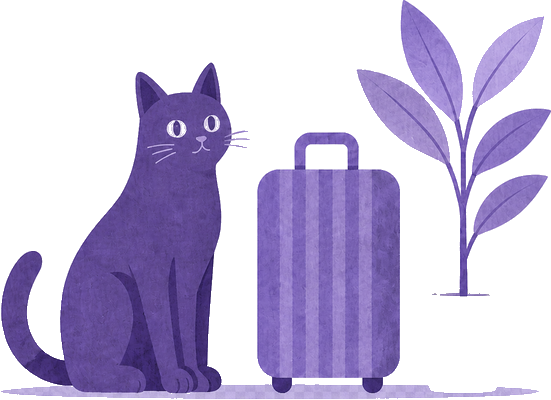
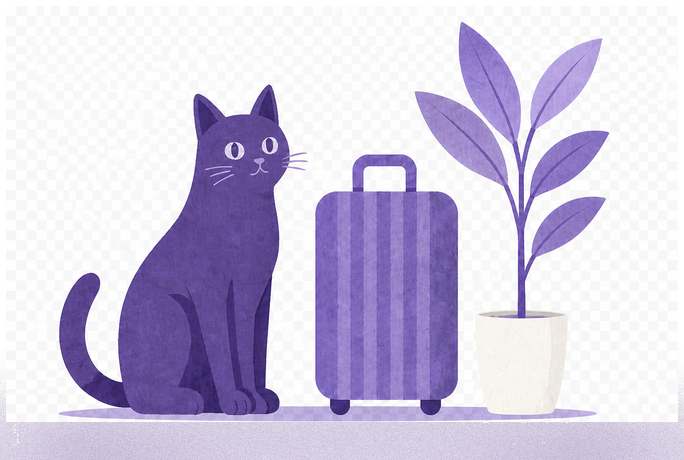
fix(pvm): Design C — restore plant pots and bake violet ground shadow
art-c-v10 dust cleanup removed light pots; CSS drop-shadow was too weak on lavender. Restore pots from art-c-v8 and bake soft violet oval into PNGs (art-c-v11).

diff --git a/frontend/app/assets/main.css b/frontend/app/assets/main.css
@@ -17337,10 +17337,8 @@ button.button {
   pointer-events: none;
   user-select: none;
   max-width: min(48%, 200px);
-  /* Мягкая фиолетовая тень под группой вместо белой пыли в PNG */
-  filter:
-    drop-shadow(0 9px 7px rgba(74, 42, 120, 0.28))
-    drop-shadow(0 3px 2px rgba(58, 32, 100, 0.18));
+  /* Тень запечена в PNG (мягкий violet oval); CSS drop-shadow на lavender не читался */
+  filter: none;
 }
 
 .pvm-illust--welcome {

diff --git a/frontend/app/data/postVacationMemoSlides.ts b/frontend/app/data/postVacationMemoSlides.ts
@@ -14,7 +14,7 @@ export type PostVacationMemoSlide = {
   laterCta?: string;
 };
 
-const ART_V = 'art-c-v10';
+const ART_V = 'art-c-v11';
 
 /** Первый экран: тепло, без акцента что выход = хандра. */
 export const POST_VACATION_WELCOME: PostVacationMemoSlide = {

diff --git a/docs/CHANGELOG.md b/docs/CHANGELOG.md
@@ -4,6 +4,19 @@
 
 ## 2026-08-27
 
+### Памятка Design C: горшки + тень в PNG (art-c-v11)
+- Причина: pass art-c-v10 (убрать белую пыль) вместе с пылью стёр светлые горшки; CSS `drop-shadow` на lavender почти не читался.
+- Арт: восстановлены светлые горшки у растений на всех 6 `pvm-c-art-*.png` из pre-v10 (art-c-v8), без перерисовки котов; в PNG запечён мягкий violet oval под группой; бумажная текстура сохранена.
+- CSS: слабый `filter: drop-shadow` у `.pvm-illust` снят (тень в растре). Cache-bust `?v=art-c-v11`.
+- Файлы: `public/memos/pvm-c-art-*.png`, `postVacationMemoSlides.ts`, `main.css`.
+- Проверка: `http://45.12.74.25:8080/?pvm=1` (hard refresh) — welcome + tip1 + tip3: горшок и тень видны. Прод не трогали.
+
+### База знаний ИИ: fallback на вопросы про кейсы
+- Пока кейсы не в статьях БЗ: вопросы с «кейс/кейсы/case study» → фиксированный ответ без RAG/GPT и без «Ещё по теме» (чтобы не подтягивать чужие статьи вроде Авито-специалистов).
+- Текст: «Пока что я не умею работать с кейсами, но уже прохожу обучение! Скоро смогу ответить на все ваши вопросы по ним.»
+- Файлы: `knowledgeAiIntent.ts` (`detectKbAiCasesQuestion`, `KB_AI_CASES_REPLY`), `yandex-ask.post.ts`, `useKnowledgeAiAnswer.ts`, `docs/PRODUCT.md`.
+- Проверка: `node scripts/knowledge/check-kb-cases-fallback.mjs`; в чате «где взять кейс по авто тематике?» → точный fallback, без ссылок.
+
 ### Памятка Design C: текстура, тень, кнопки, регистр заголовка
 - Бумага: сильнее vertical linen на `.pvm-card__paper` (noise + зерно).
 - Тень: с PNG убрана белая пыль под лапами; под `.pvm-illust` — soft violet `drop-shadow` (кот/пропсы те же).
